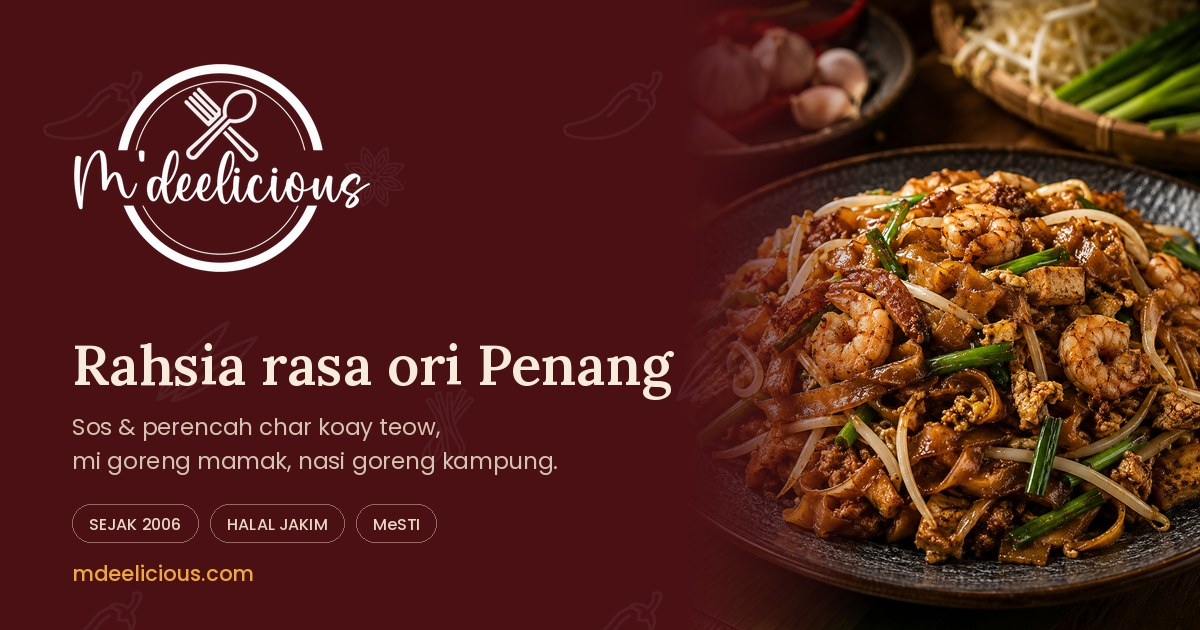
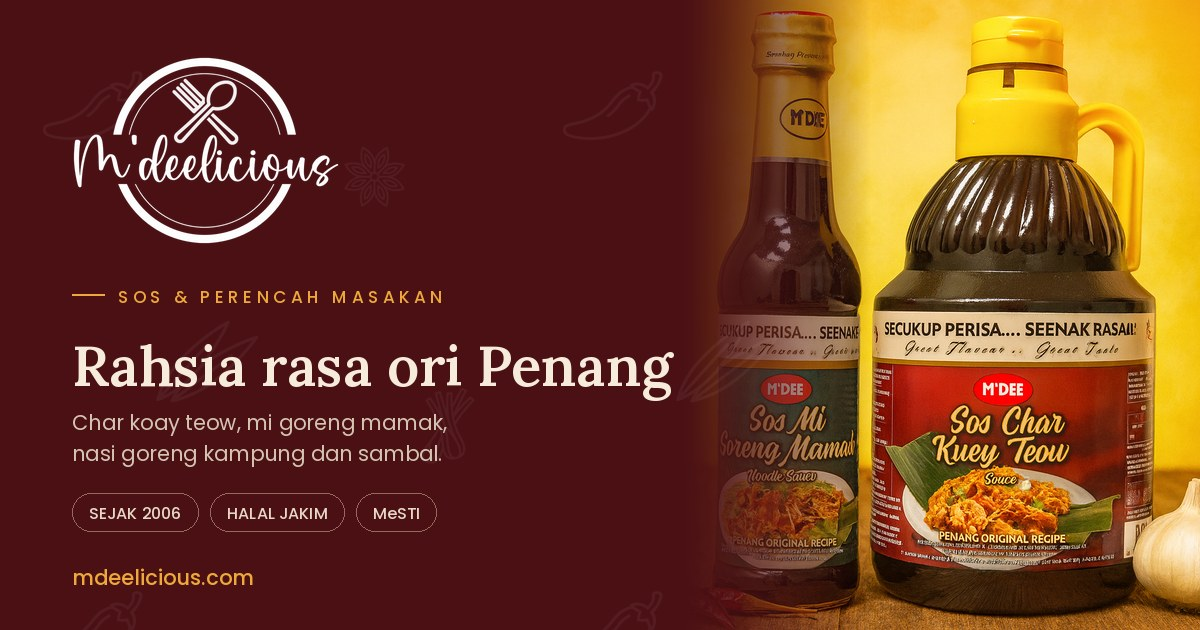
fix: show the bottles in the link preview, not a plated dish

diff --git a/index.html b/index.html
@@ -18,12 +18,12 @@
             content="M'Dee makes ready-to-use Penang char koay teow sauce, cooking pastes and sambal. Halal-certified, made in Tasek Gelugor, Pulau Pinang since 2006."
             property="og:description"
         />
-        <meta content="https://www.mdeelicious.com/" property="og:url" />
+        <meta content=" v/" property="og:url" />
         <meta content="M’Dee" property="og:site_name" />
         <meta content="https://www.mdeelicious.com/asset/og-image.jpg" property="og:image" />
         <meta content="1200" property="og:image:width" />
         <meta content="630" property="og:image:height" />
-        <meta content="M’Dee — Penang char koay teow sauce, pastes and sambal" property="og:image:alt" />
+        <meta content="M’Dee Sos Char Kuey Teow and Sos Mi Goreng Mamak bottles" property="og:image:alt" />
         <meta content="M’Dee — Rahsia rasa ori Penang" name="twitter:title" />
         <meta
             content="M'Dee makes ready-to-use Penang char koay teow sauce, cooking pastes and sambal. Halal-certified, made in Tasek Gelugor, Pulau Pinang since 2006."

diff --git a/our-story.html b/our-story.html
@@ -23,7 +23,7 @@
         <meta content="https://www.mdeelicious.com/asset/og-image.jpg" property="og:image" />
         <meta content="1200" property="og:image:width" />
         <meta content="630" property="og:image:height" />
-        <meta content="M’Dee — Penang char koay teow sauce, pastes and sambal" property="og:image:alt" />
+        <meta content="M’Dee Sos Char Kuey Teow and Sos Mi Goreng Mamak bottles" property="og:image:alt" />
         <meta content="M’Dee — Rahsia rasa ori Penang" name="twitter:title" />
         <meta
             content="How a lecturer in Bukit Mertajam turned a home-made char koay teow paste into M'Dee, a halal-certified Penang sauce maker shipping thousands of bottles a month."

diff --git a/contact.html b/contact.html
@@ -23,7 +23,7 @@
         <meta content="https://www.mdeelicious.com/asset/og-image.jpg" property="og:image" />
         <meta content="1200" property="og:image:width" />
         <meta content="630" property="og:image:height" />
-        <meta content="M’Dee — Penang char koay teow sauce, pastes and sambal" property="og:image:alt" />
+        <meta content="M’Dee Sos Char Kuey Teow and Sos Mi Goreng Mamak bottles" property="og:image:alt" />
         <meta content="M’Dee — Rahsia rasa ori Penang" name="twitter:title" />
         <meta
             content="Contact M’Dee. WhatsApp or call 016-4432630, or visit the kitchen at Kompleks Perda Food Park, Tasek Gelugor, Pulau Pinang. Stockist and bulk orders welcome."

diff --git a/home-shop.html b/home-shop.html
@@ -23,7 +23,7 @@
         <meta content="https://www.mdeelicious.com/asset/og-image.jpg" property="og:image" />
         <meta content="1200" property="og:image:width" />
         <meta content="630" property="og:image:height" />
-        <meta content="M’Dee — Penang char koay teow sauce, pastes and sambal" property="og:image:alt" />
+        <meta content="M’Dee Sos Char Kuey Teow and Sos Mi Goreng Mamak bottles" property="og:image:alt" />
         <meta content="M’Dee — Rahsia rasa ori Penang" name="twitter:title" />
         <meta
             content="Browse the full M'Dee range: char koay teow sauce and paste, mee goreng mamak, nasi goreng kampung and sambal. Halal-certified, made in Penang since 2006."

diff --git a/how-it-works.html b/how-it-works.html
@@ -23,7 +23,7 @@
         <meta content="https://www.mdeelicious.com/asset/og-image.jpg" property="og:image" />
         <meta content="1200" property="og:image:width" />
         <meta content="630" property="og:image:height" />
-        <meta content="M’Dee — Penang char koay teow sauce, pastes and sambal" property="og:image:alt" />
+        <meta content="M’Dee Sos Char Kuey Teow and Sos Mi Goreng Mamak bottles" property="og:image:alt" />
         <meta content="M’Dee — Rahsia rasa ori Penang" name="twitter:title" />
         <meta
             content="Cook Penang char koay teow at home in about ten minutes with M’Dee paste or sauce. Step by step, with the ingredient list and the wok tips that matter."

diff --git a/recipes.html b/recipes.html
@@ -23,7 +23,7 @@
         <meta content="https://www.mdeelicious.com/asset/og-image.jpg" property="og:image" />
         <meta content="1200" property="og:image:width" />
         <meta content="630" property="og:image:height" />
-        <meta content="M’Dee — Penang char koay teow sauce, pastes and sambal" property="og:image:alt" />
+        <meta content="M’Dee Sos Char Kuey Teow and Sos Mi Goreng Mamak bottles" property="og:image:alt" />
         <meta content="M’Dee — Rahsia rasa ori Penang" name="twitter:title" />
         <meta
             content="What to cook with M’Dee. Start with Penang char koay teow, ready in about ten minutes with our paste or sauce."
